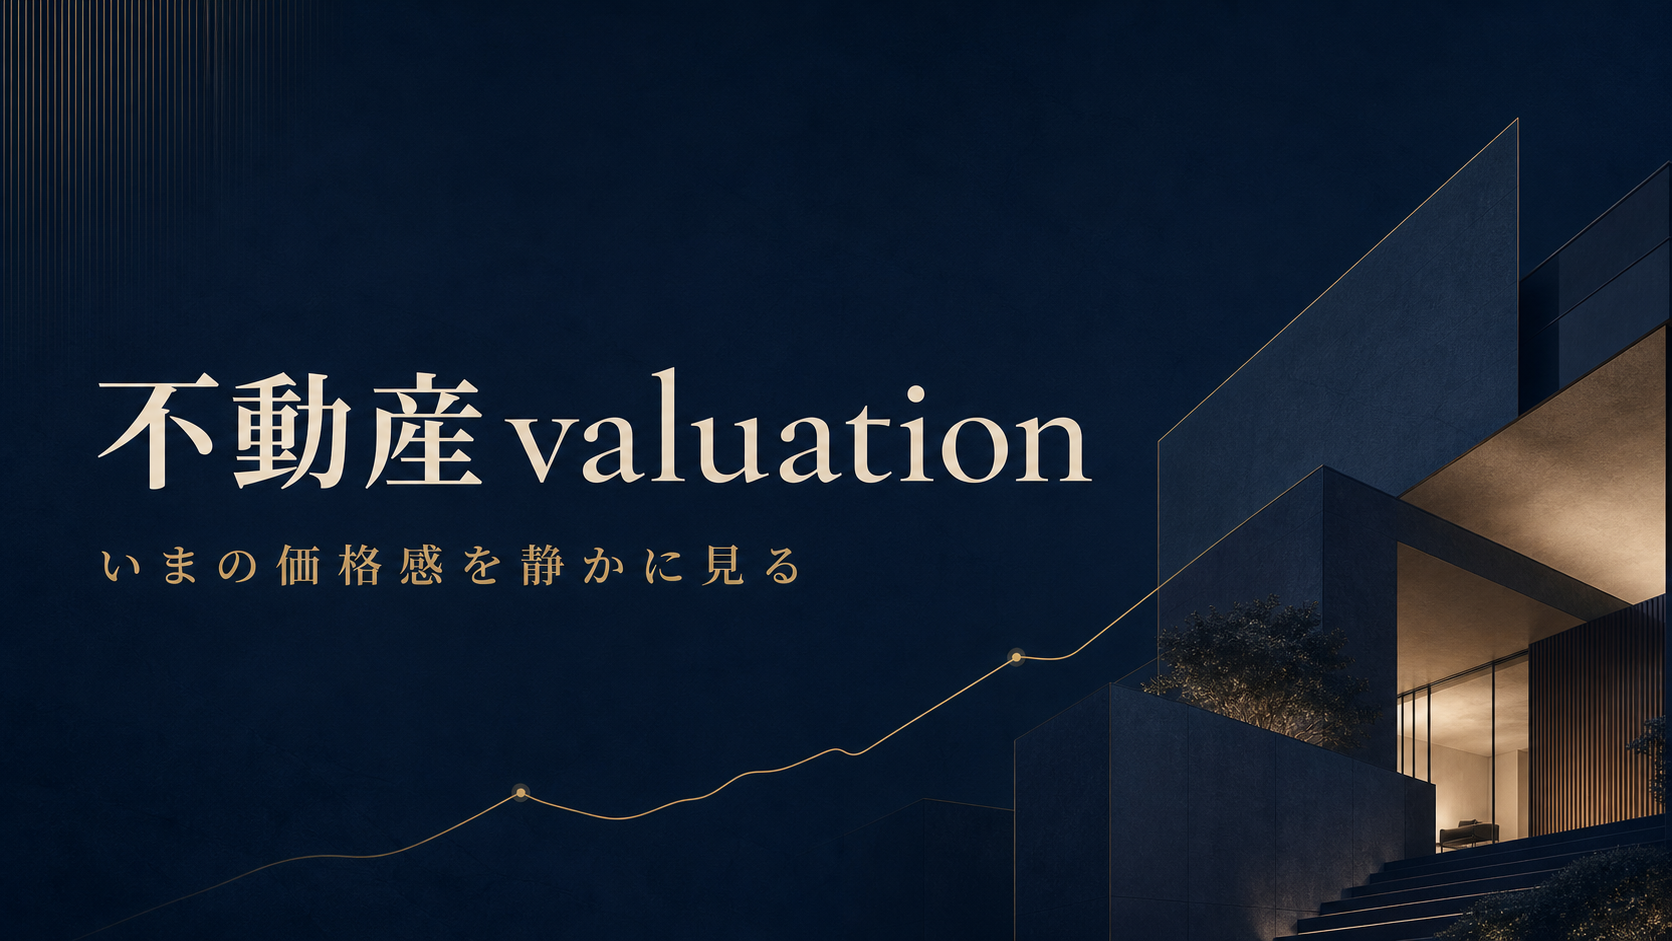
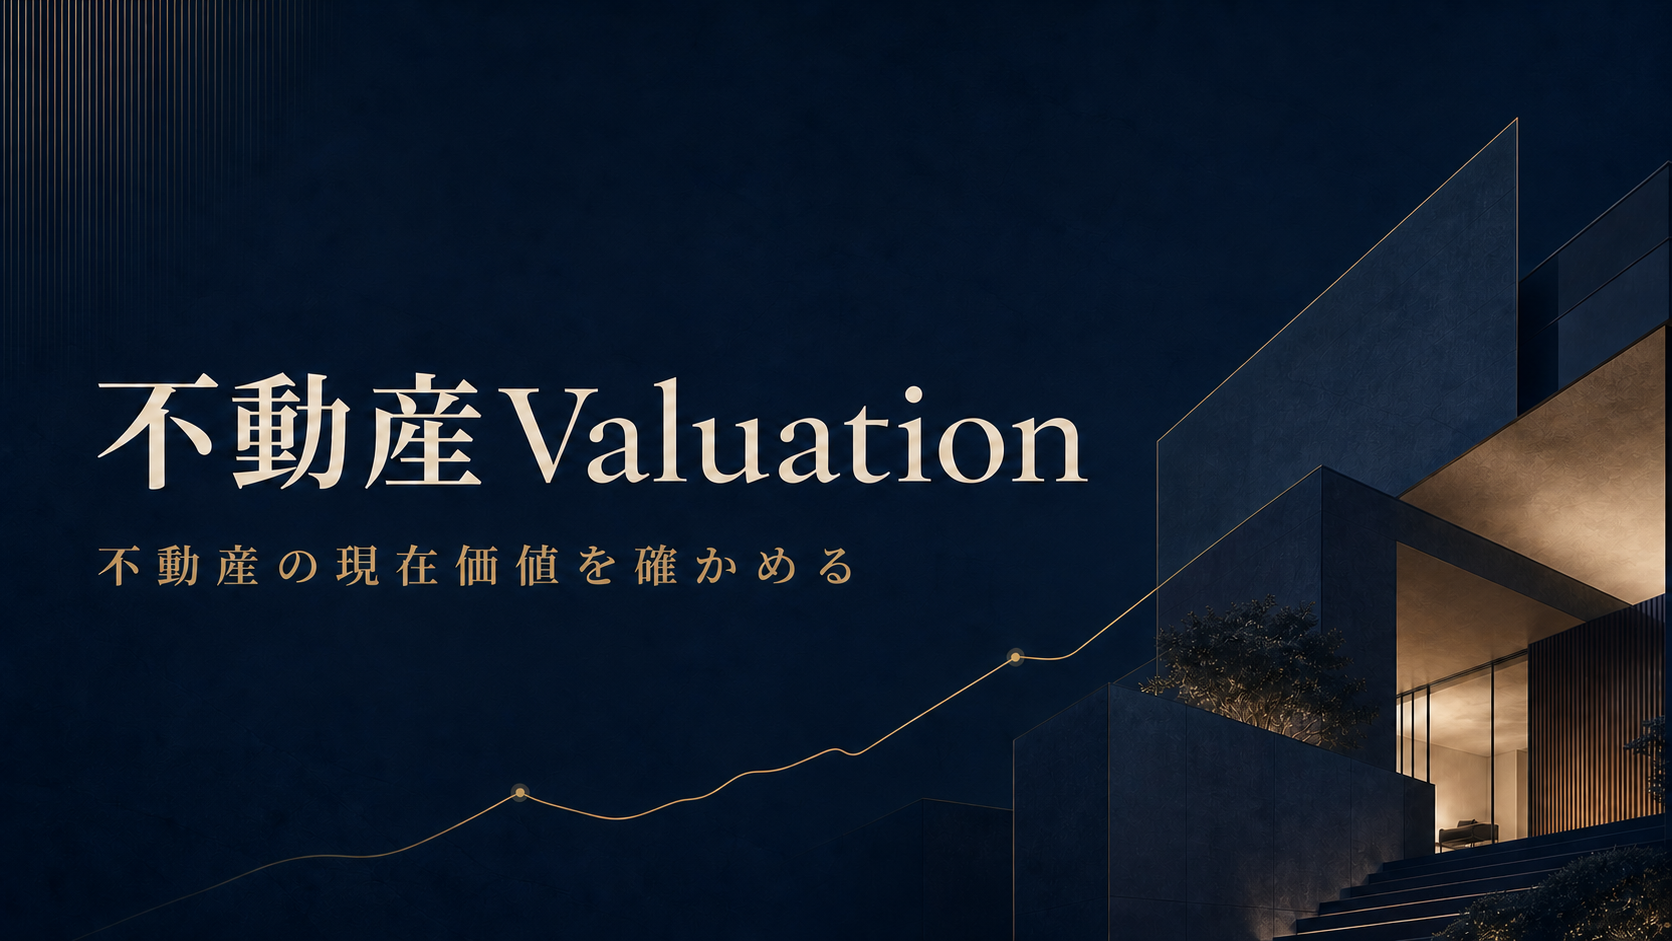
Update current value messaging and OG image

diff --git a/public/index.html b/public/index.html
@@ -4,17 +4,17 @@
   <meta charset="utf-8">
   <meta name="viewport" content="width=device-width, initial-scale=1">
   <title>かんたん不動産価値チェック</title>
-  <meta name="description" content="不動産Valuation。住所と条件から、いまの価格感を静かに確認できる不動産価値チェック。">
+  <meta name="description" content="不動産Valuation。住所と条件から、不動産の現在価値を確かめられる不動産価値チェック。">
   <meta name="theme-color" content="#050508">
   <meta property="og:type" content="website">
   <meta property="og:title" content="不動産Valuation">
-  <meta property="og:description" content="いまの価格感を静かに見る。不動産の価値を落ち着いて確認できるサイトです。">
-  <meta property="og:image" content="/images/brand/og-image.png">
+  <meta property="og:description" content="住所と条件から、不動産の現在価値を確かめられるサイトです。">
+  <meta property="og:image" content="/images/brand/og-image.png?v=2">
   <meta property="og:locale" content="ja_JP">
   <meta name="twitter:card" content="summary_large_image">
   <meta name="twitter:title" content="不動産Valuation">
-  <meta name="twitter:description" content="いまの価格感を静かに見る。不動産の価値を落ち着いて確認できるサイトです。">
-  <meta name="twitter:image" content="/images/brand/og-image.png">
+  <meta name="twitter:description" content="住所と条件から、不動産の現在価値を確かめられるサイトです。">
+  <meta name="twitter:image" content="/images/brand/og-image.png?v=2">
   <link rel="icon" type="image/png" sizes="32x32" href="/images/brand/icon-32.png">
   <link rel="apple-touch-icon" sizes="192x192" href="/images/brand/icon-192.png">
   <link rel="manifest" href="/site.webmanifest">
@@ -1177,7 +1177,7 @@
       <h1 class="hero-title">
         不動産<span class="hero-highlight">Valuation</span>
       </h1>
-      <p class="hero-subtitle">いまの価格感を、静かに大きく見る</p>
+      <p class="hero-subtitle">不動産の現在価値を確かめる</p>
     </div>
     <div class="hero-scroll-cue">Scroll</div>
   </section>

diff --git a/public/app.js b/public/app.js
@@ -772,7 +772,7 @@
         eyebrow: "STRENGTH 01",
         title: "営業前提に寄せない",
         subtitle: "No Sales Pressure",
-        description: "まず相場だけ知りたい人が入りやすいように、重たい問い合わせ導線より、静かに価格感を見られる流れを前に置いています。"
+        description: "まず価値を知りたい人が入りやすいように、重たい問い合わせ導線より、不動産の現在価値を確かめやすい流れを前に置いています。"
       },
       {
         id: "scene-land",
